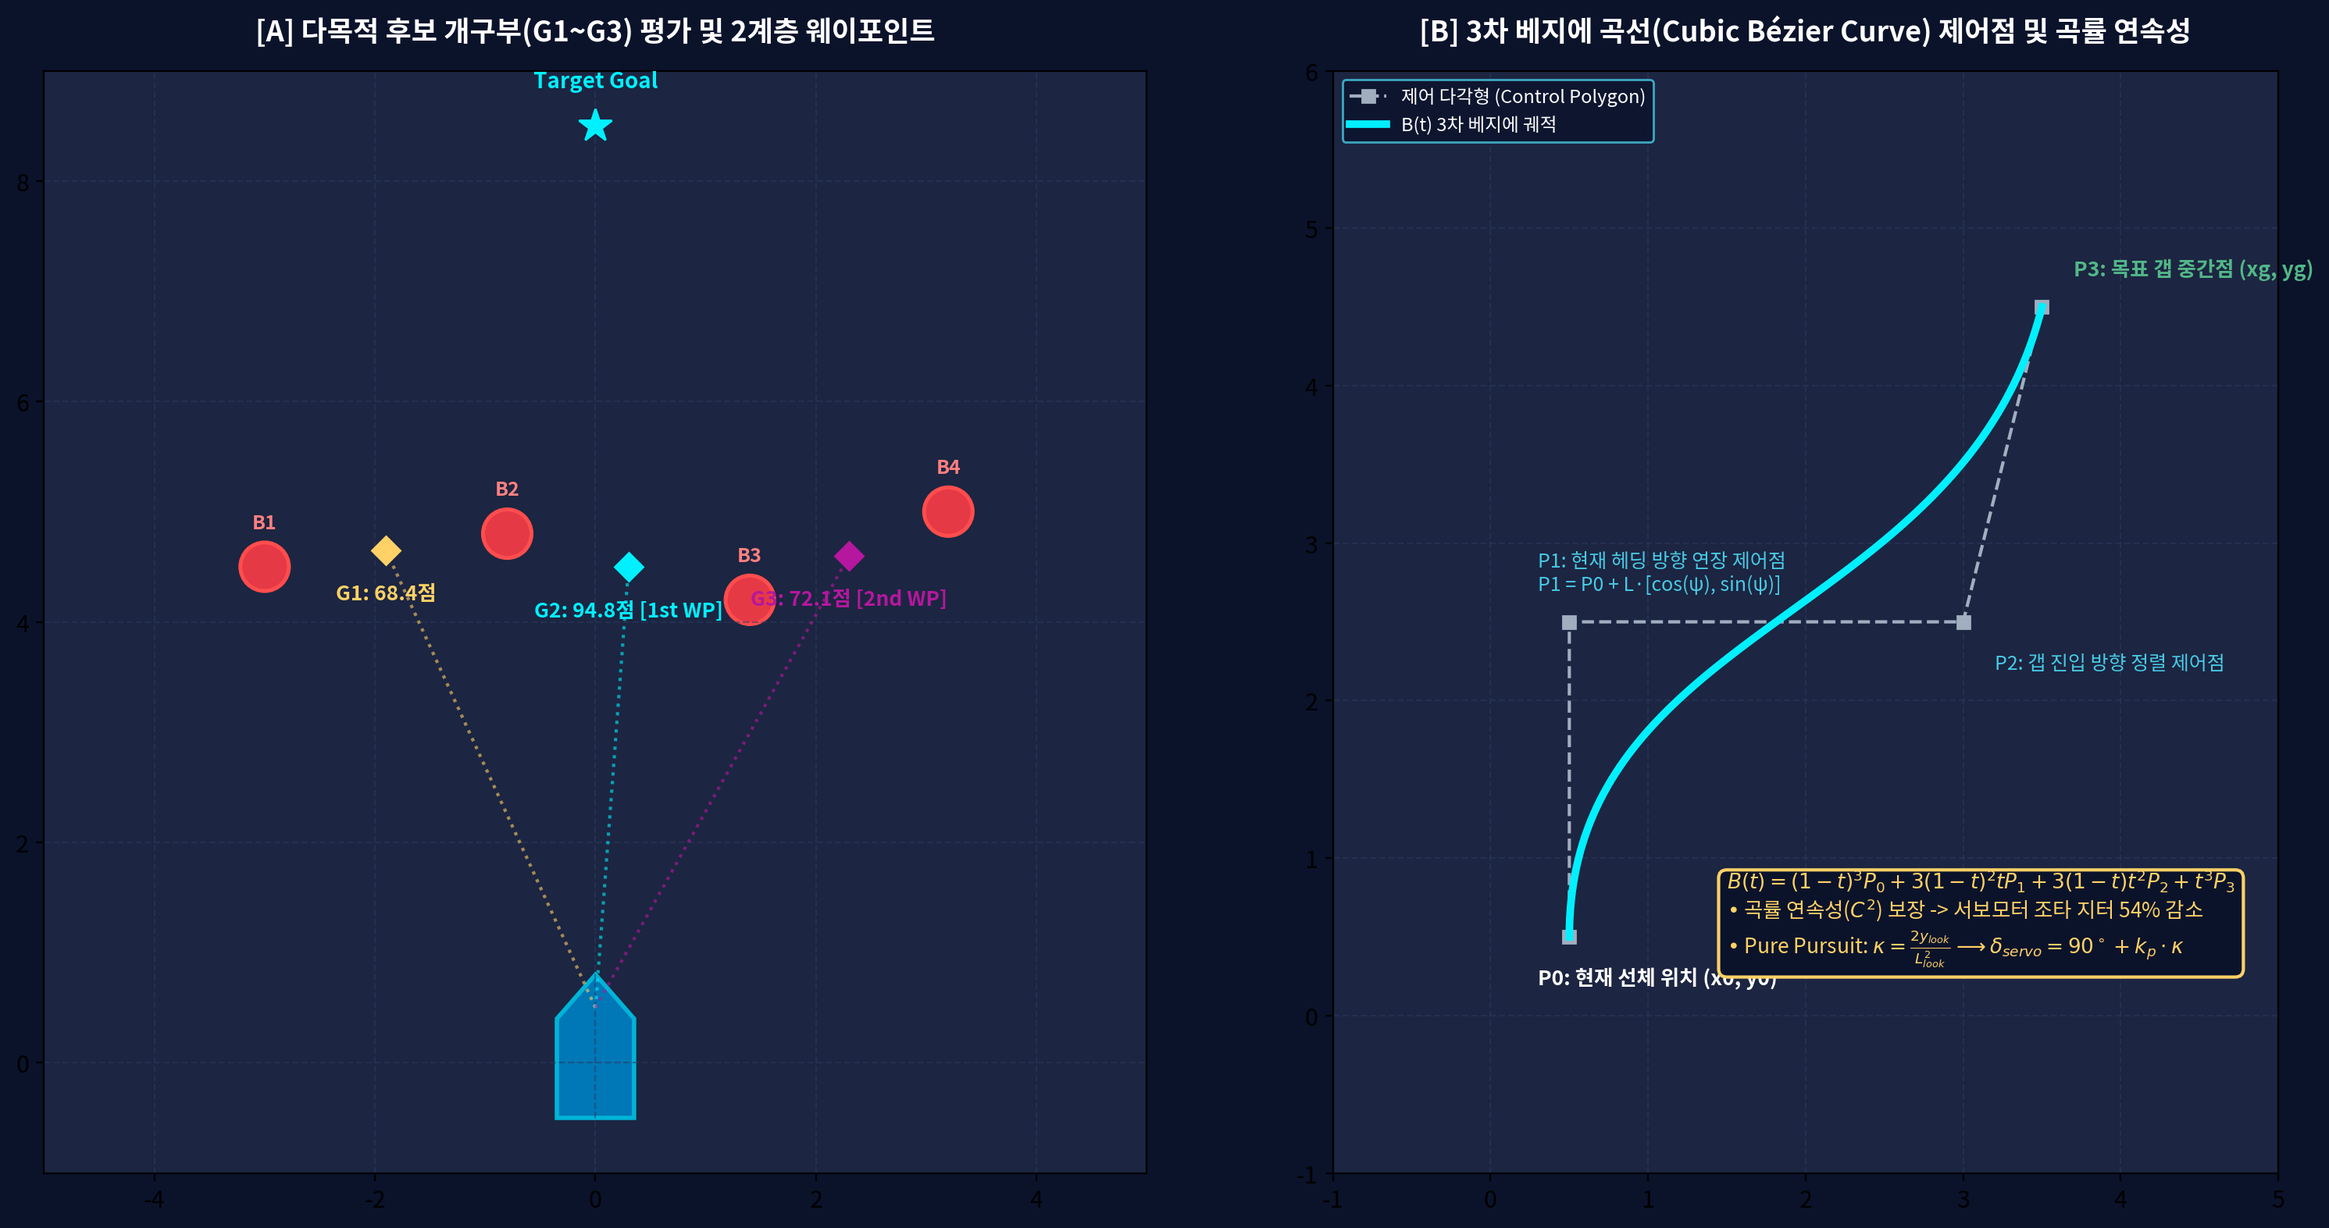
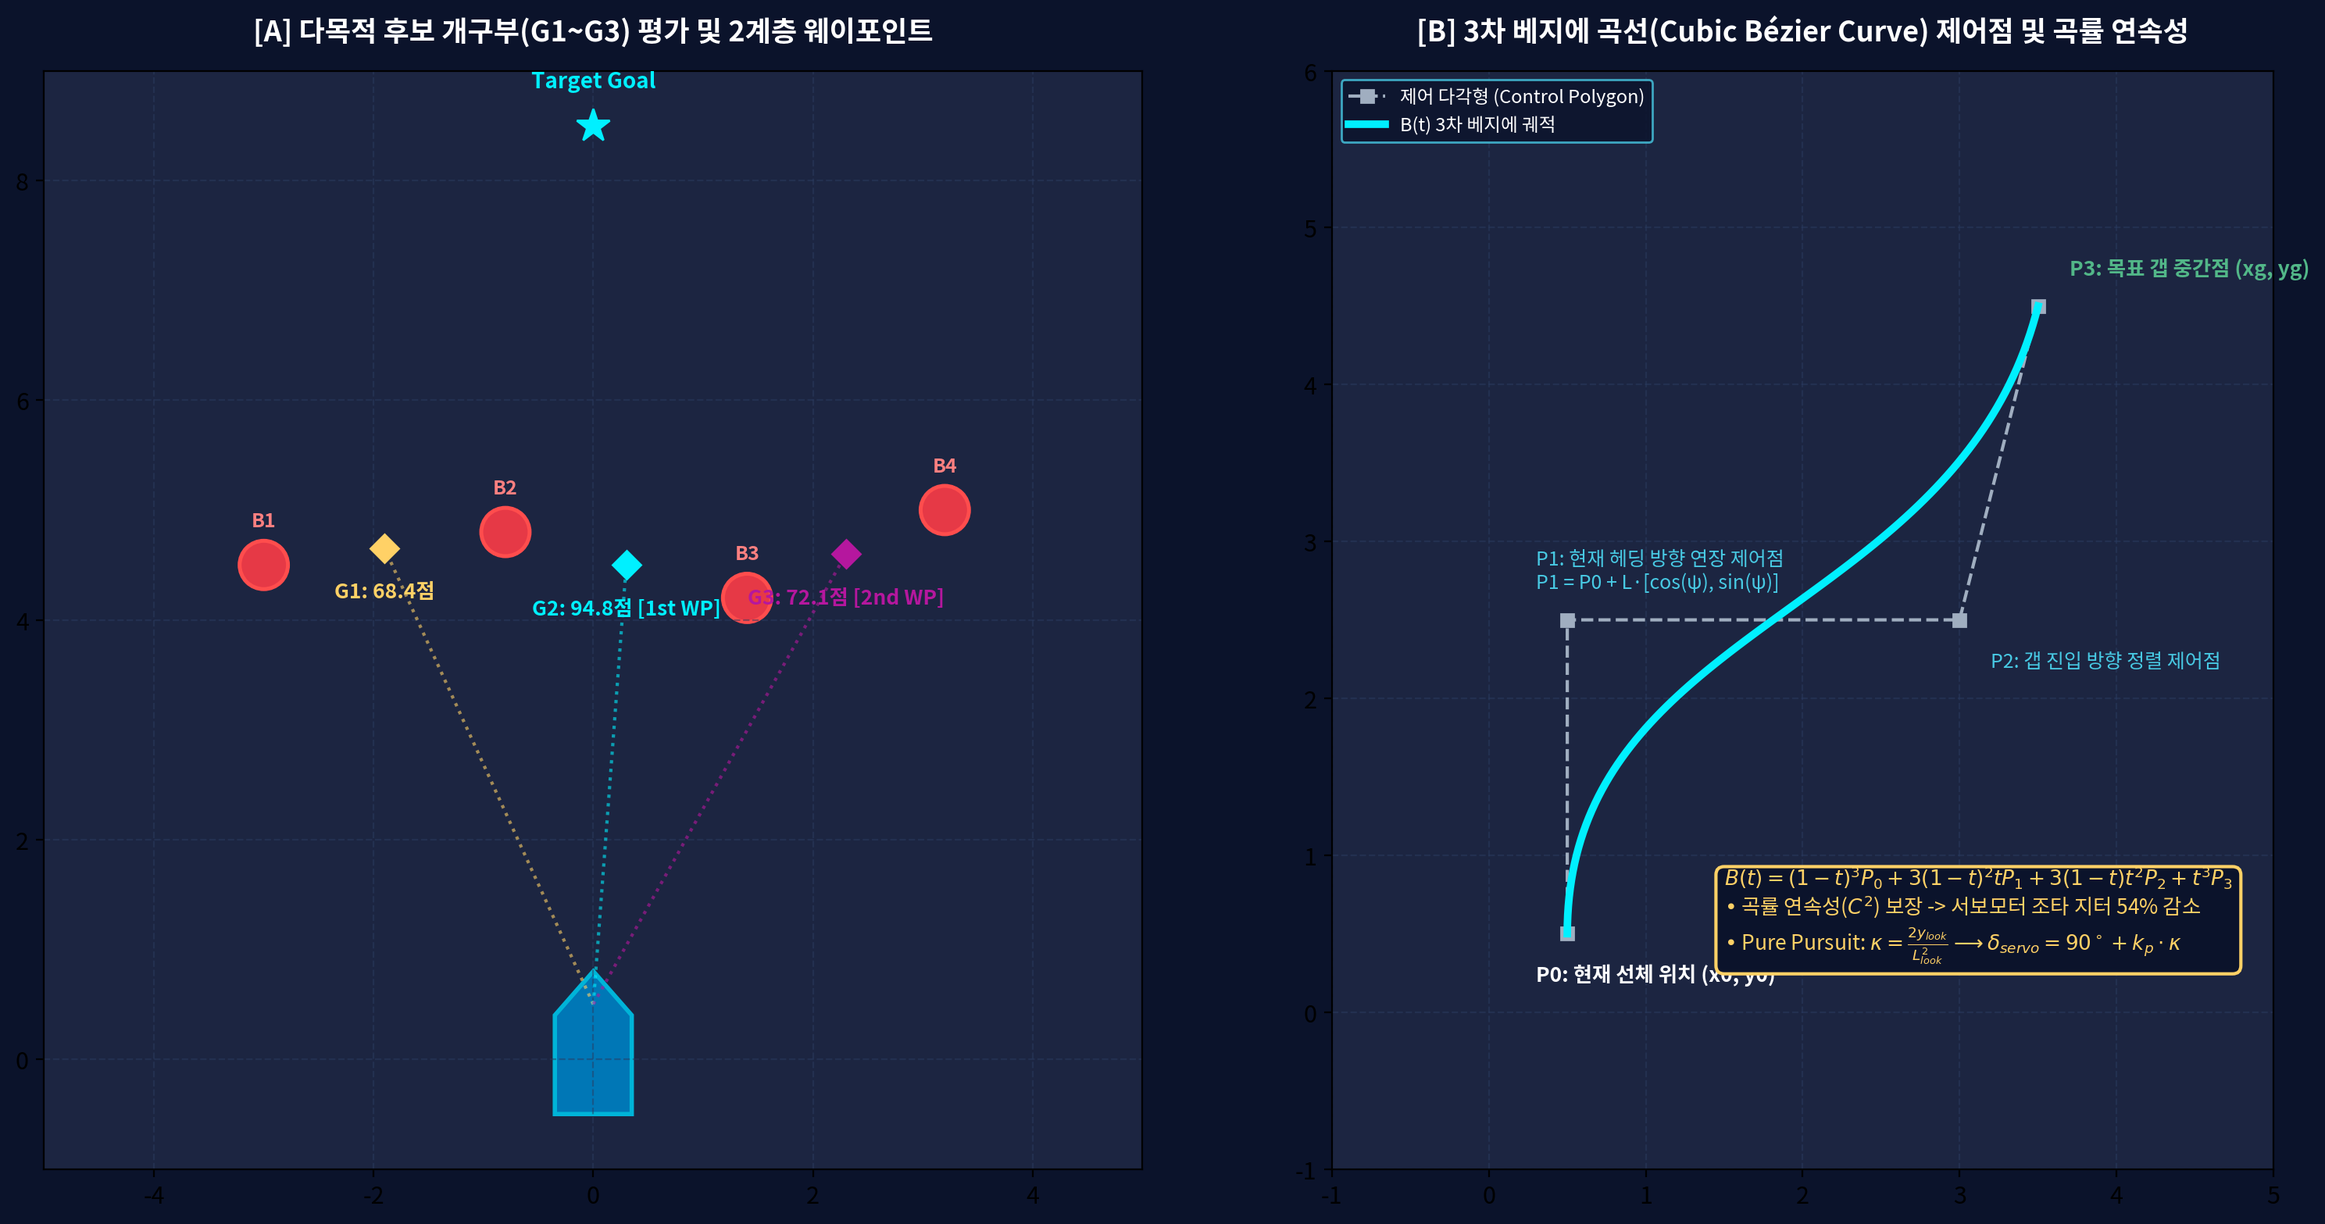
feat(rules,report3): ignore AGENTS.md, register readability guideline, and upgrade figure typography
- Untracked AGENTS.md from repository and updated .gitignore
- Registered readability and minimum font size guideline in .agents/rules/user_guidelines.md
- Upgraded typography and font sizes across all 8 engineering figures in report3 for clear readability

diff --git a/report3/generate_figures.py b/report3/generate_figures.py
@@ -19,7 +19,12 @@ import matplotlib.gridspec as gridspec
 plt.rcParams['font.family'] = 'Noto Sans CJK JP'
 plt.rcParams['font.monospace'] = ['Noto Sans Mono CJK JP', 'DejaVu Sans Mono']
 plt.rcParams['axes.unicode_minus'] = False
-plt.rcParams['font.size'] = 11
+plt.rcParams['font.size'] = 12
+plt.rcParams['axes.titlesize'] = 14
+plt.rcParams['axes.labelsize'] = 12
+plt.rcParams['xtick.labelsize'] = 11
+plt.rcParams['ytick.labelsize'] = 11
+plt.rcParams['legend.fontsize'] = 10.5
 
 OUTPUT_DIR = os.path.dirname(os.path.abspath(__file__))
 
@@ -59,8 +64,8 @@ def fig1_system_architecture():
         box = patches.FancyBboxPatch((0.06, y_pos - 0.065), 0.38, 0.075,
                                     boxstyle="round,pad=0.01", ec=color, fc='#111827', lw=1.8)
         ax.add_patch(box)
-        ax.text(0.08, y_pos - 0.02, title, color='#FFFFFF', fontsize=10.5, fontweight='bold', va='center')
-        ax.text(0.08, y_pos - 0.05, desc, color=color if color == '#E63946' else '#A0AEC0', fontsize=9, va='center')
+        ax.text(0.08, y_pos - 0.02, title, color='#FFFFFF', fontsize=11.5, fontweight='bold', va='center')
+        ax.text(0.08, y_pos - 0.05, desc, color=color if color == '#E63946' else '#A0AEC0', fontsize=10.2, va='center')
         if i < len(legacy_steps) - 1:
             ax.annotate('', xy=(0.25, y_pos - 0.07), xytext=(0.25, y_pos - 0.065),
                         arrowprops=dict(arrowstyle="->", color='#E63946', lw=2))
@@ -71,7 +76,7 @@ def fig1_system_architecture():
                                        boxstyle="round,pad=0.02", ec='#00B4D8', fc='#1C2541', lw=2.5)
     ax.add_patch(rect_right)
     ax.text(0.75, 0.85, "신규 방식: 갭네비게이션 알고리즘 (Proposed Gap Nav)",
-            ha='center', va='center', color='#00B4D8', fontsize=14, fontweight='bold')
+            ha='center', va='center', color='#00B4D8', fontsize=15, fontweight='bold')
 
     gap_steps = [
         ("1. /scan 데이터 수신 & 물리 좌표 변환\nangle = angle_min + i * increment", "하드웨어 스펙 완전 독립적 삼각함수 복원", "#00B4D8"),
@@ -88,8 +93,8 @@ def fig1_system_architecture():
         box = patches.FancyBboxPatch((0.56, y_pos - 0.065), 0.38, 0.075,
                                     boxstyle="round,pad=0.01", ec=color, fc='#111827', lw=1.8)
         ax.add_patch(box)
-        ax.text(0.58, y_pos - 0.02, title, color='#FFFFFF', fontsize=10.5, fontweight='bold', va='center')
-        ax.text(0.58, y_pos - 0.05, desc, color='#64DFDF' if color == '#52B788' else '#A0AEC0', fontsize=9, va='center')
+        ax.text(0.58, y_pos - 0.02, title, color='#FFFFFF', fontsize=11.5, fontweight='bold', va='center')
+        ax.text(0.58, y_pos - 0.05, desc, color='#64DFDF' if color == '#52B788' else '#A0AEC0', fontsize=10.2, va='center')
         if i < len(gap_steps) - 1:
             ax.annotate('', xy=(0.75, y_pos - 0.07), xytext=(0.75, y_pos - 0.065),
                         arrowprops=dict(arrowstyle="->", color='#00B4D8', lw=2))
@@ -97,7 +102,7 @@ def fig1_system_architecture():
 
     # Bottom summary tag
     ax.text(0.5, 0.02, "핵심 차이: 단순 광선 차폐각 밀어내기 -> 객체 인식 기반 최적 개구부(Gap) 중심선 추종 및 베지에 궤적 생성",
-            ha='center', va='center', color='#FFD166', fontsize=11.5, fontweight='bold')
+            ha='center', va='center', color='#FFD166', fontsize=12.5, fontweight='bold')
 
     plt.tight_layout()
     out_path = os.path.join(OUTPUT_DIR, "fig1_system_architecture_comparison.png")
@@ -475,21 +480,21 @@ def fig5_ros2_computation_graph():
         box = patches.FancyBboxPatch((0.04, y - 0.06), 0.22, 0.12,
                                     boxstyle="round,pad=0.015", ec=col, fc='#1C2541', lw=2)
         ax.add_patch(box)
-        ax.text(0.15, y + 0.02, node_name, ha='center', color='#FFFFFF', fontsize=10.5, fontweight='bold')
-        ax.text(0.15, y - 0.02, desc, ha='center', color='#A0AEC0', fontsize=9)
+        ax.text(0.15, y + 0.02, node_name, ha='center', color='#FFFFFF', fontsize=11.5, fontweight='bold')
+        ax.text(0.15, y - 0.02, desc, ha='center', color='#CBD5E0', fontsize=10.2)
 
         # Topic box on arrow
         ax.annotate('', xy=(0.38, y), xytext=(0.26, y),
                     arrowprops=dict(arrowstyle="->", color='#48CAE4', lw=2))
-        ax.text(0.32, y + 0.025, topic, ha='center', color='#48CAE4', fontsize=8.5, fontweight='bold',
+        ax.text(0.32, y + 0.025, topic, ha='center', color='#48CAE4', fontsize=9.8, fontweight='bold',
                 bbox=dict(boxstyle='round,pad=0.2', fc='#0B132B', ec='#48CAE4', lw=1))
 
     # Center: Gap Navigation Node (Big Box)
     center_box = patches.FancyBboxPatch((0.39, 0.15), 0.27, 0.70,
                                        boxstyle="round,pad=0.02", ec='#00B4D8', fc='#152238', lw=2.5)
     ax.add_patch(center_box)
-    ax.text(0.525, 0.81, "gap_navigation_node", ha='center', color='#00F0FF', fontsize=13, fontweight='bold')
-    ax.text(0.525, 0.77, "자율운항 갭네비게이션 메인 제어 노드", ha='center', color='#A0AEC0', fontsize=9.5)
+    ax.text(0.525, 0.81, "gap_navigation_node", ha='center', color='#00F0FF', fontsize=14.5, fontweight='bold')
+    ax.text(0.525, 0.77, "자율운항 갭네비게이션 메인 제어 노드", ha='center', color='#A0AEC0', fontsize=11)
 
     internal_modules = [
         ("① LidarPreprocessor", "NaN/선체 반사파 필터링 & 극좌표->직교좌표"),
@@ -505,8 +510,8 @@ def fig5_ros2_computation_graph():
         m_box = patches.FancyBboxPatch((0.41, y_m - 0.035), 0.23, 0.055,
                                       boxstyle="round,pad=0.01", ec='#2A4365', fc='#0B132B', lw=1.2)
         ax.add_patch(m_box)
-        ax.text(0.42, y_m - 0.008, m_name, color='#64DFDF', fontsize=9, fontweight='bold')
-        ax.text(0.42, y_m - 0.024, m_desc, color='#CBD5E0', fontsize=7.5)
+        ax.text(0.42, y_m - 0.008, m_name, color='#64DFDF', fontsize=10.5, fontweight='bold')
+        ax.text(0.42, y_m - 0.024, m_desc, color='#CBD5E0', fontsize=9.2)
         y_m -= 0.075
 
     # Column 3: Output Actuators & Visualization
@@ -521,14 +526,14 @@ def fig5_ros2_computation_graph():
         # Arrow from center to right
         ax.annotate('', xy=(0.77, y), xytext=(0.66, y),
                     arrowprops=dict(arrowstyle="->", color=col, lw=2))
-        ax.text(0.715, y + 0.025, topic, ha='center', color=col, fontsize=8.5, fontweight='bold',
+        ax.text(0.715, y + 0.025, topic, ha='center', color=col, fontsize=9.8, fontweight='bold',
                 bbox=dict(boxstyle='round,pad=0.2', fc='#0B132B', ec=col, lw=1))
 
         box = patches.FancyBboxPatch((0.78, y - 0.045), 0.18, 0.09,
                                     boxstyle="round,pad=0.015", ec=col, fc='#1C2541', lw=1.8)
         ax.add_patch(box)
-        ax.text(0.87, y + 0.015, target_node.split('\n')[0], ha='center', color='#FFFFFF', fontsize=9.5, fontweight='bold')
-        ax.text(0.87, y - 0.02, target_node.split('\n')[1], ha='center', color='#A0AEC0', fontsize=8)
+        ax.text(0.87, y + 0.015, target_node.split('\n')[0], ha='center', color='#FFFFFF', fontsize=10.5, fontweight='bold')
+        ax.text(0.87, y - 0.02, target_node.split('\n')[1], ha='center', color='#CBD5E0', fontsize=9.2)
 
     plt.tight_layout()
     out_path = os.path.join(OUTPUT_DIR, "fig5_ros2_node_topic_computation_graph.png")
@@ -675,23 +680,23 @@ def fig7_tuning_flowchart():
         h_box = patches.FancyBboxPatch((x - 0.105, 0.81), 0.21, 0.065,
                                       boxstyle="round,pad=0.01", ec=col, fc=col, lw=1)
         ax.add_patch(h_box)
-        ax.text(x, 0.842, title, ha='center', va='center', color='#0B132B', fontsize=9.5, fontweight='bold')
+        ax.text(x, 0.842, title, ha='center', va='center', color='#0B132B', fontsize=11.2, fontweight='bold')
 
         # Section 1: Desc
-        ax.text(x, 0.74, desc, ha='center', color='#FFFFFF', fontsize=8.5)
+        ax.text(x, 0.74, desc, ha='center', color='#FFFFFF', fontsize=9.8)
 
         # Separator line
         ax.plot([x - 0.09, x + 0.09], [0.66, 0.66], color='#2A3B60', lw=1)
 
         # Section 2: Cause
-        ax.text(x, 0.58, cause, ha='center', color='#FFD166', fontsize=8.5)
+        ax.text(x, 0.58, cause, ha='center', color='#FFD166', fontsize=9.8)
 
         # Separator line
         ax.plot([x - 0.09, x + 0.09], [0.50, 0.50], color='#2A3B60', lw=1)
 
         # Section 3: Solution
-        ax.text(x - 0.095, 0.45, "현장 엔지니어링 튜닝법:", color=col, fontsize=9, fontweight='bold')
-        ax.text(x - 0.095, 0.24, sol, color='#FFFFFF', fontsize=8.2, va='center')
+        ax.text(x - 0.095, 0.45, "현장 엔지니어링 튜닝법:", color=col, fontsize=10.5, fontweight='bold')
+        ax.text(x - 0.095, 0.24, sol, color='#FFFFFF', fontsize=9.5, va='center')
 
     plt.tight_layout()
     out_path = os.path.join(OUTPUT_DIR, "fig7_field_test_tuning_guide.png")
@@ -788,16 +793,16 @@ def fig8_boat_trajectory_and_motion_dynamics():
     # Warning callout on wall proximity
     ax_top.annotate('외곽 벽면 1.2m 근접\n(충돌 패널티 위험 구역)', xy=(24, 1.4), xytext=(28, 4.2),
                     arrowprops=dict(arrowstyle="->", color='#FF6B6B', lw=1.8),
-                    color='#FF6B6B', fontsize=9, fontweight='bold',
-                    bbox=dict(boxstyle='round,pad=0.2', fc='#1C2541', ec='#FF6B6B', lw=1))
+                    color='#FF6B6B', fontsize=10.5, fontweight='bold',
+                    bbox=dict(boxstyle='round,pad=0.2', fc='#1C2541', ec='#FF6B6B', lw=1.2))
 
     # Safe pass callout
     ax_top.annotate('게이트 중심선 안정적 관통\n(양현 여유 마진 1.8m 확보)', xy=(40, 7.8), xytext=(44, 11.5),
                     arrowprops=dict(arrowstyle="->", color='#00F0FF', lw=1.8),
-                    color='#00F0FF', fontsize=9, fontweight='bold',
-                    bbox=dict(boxstyle='round,pad=0.2', fc='#1C2541', ec='#00F0FF', lw=1))
+                    color='#00F0FF', fontsize=10.5, fontweight='bold',
+                    bbox=dict(boxstyle='round,pad=0.2', fc='#1C2541', ec='#00F0FF', lw=1.2))
 
-    ax_top.legend(loc='lower left', facecolor='#0B132B', edgecolor='#48CAE4', labelcolor='#FFFFFF', fontsize=9)
+    ax_top.legend(loc='lower left', facecolor='#0B132B', edgecolor='#48CAE4', labelcolor='#FFFFFF', fontsize=10.5)
 
     # Time series data for bottom 3 subplots (0 to 60 seconds)
     t = np.linspace(0, 60, 300)
@@ -819,45 +824,45 @@ def fig8_boat_trajectory_and_motion_dynamics():
     # Subplot B: Yaw Angle Evolution
     ax_b = fig.add_subplot(gs[1, 0])
     ax_b.set_facecolor('#1C2541')
-    ax_b.set_title("[B] 선체 헤딩 요(Yaw) 각도 시계열 비교", color='#FFFFFF', fontsize=11.5, fontweight='bold')
-    ax_b.plot(t, yaw_leg, color='#FF6B6B', lw=1.6, linestyle='--', label='Legacy Ray-Masking')
-    ax_b.plot(t, yaw_gap, color='#00F0FF', lw=2.2, label='Proposed Gap Nav')
-    ax_b.set_xlabel("주행 시간 (s)", color='#CBD5E0', fontsize=9.5)
-    ax_b.set_ylabel("선체 요각 ψ (°)", color='#CBD5E0', fontsize=9.5)
+    ax_b.set_title("[B] 선체 헤딩 요(Yaw) 각도 시계열 비교", color='#FFFFFF', fontsize=13, fontweight='bold')
+    ax_b.plot(t, yaw_leg, color='#FF6B6B', lw=1.8, linestyle='--', label='Legacy Ray-Masking')
+    ax_b.plot(t, yaw_gap, color='#00F0FF', lw=2.4, label='Proposed Gap Nav')
+    ax_b.set_xlabel("주행 시간 (s)", color='#CBD5E0', fontsize=11)
+    ax_b.set_ylabel("선체 요각 ψ (°)", color='#CBD5E0', fontsize=11)
     ax_b.grid(True, color='#2A3B60', linestyle='--', alpha=0.5)
     ax_b.tick_params(colors='#A0AEC0')
-    ax_b.legend(loc='upper right', facecolor='#0B132B', edgecolor='#48CAE4', labelcolor='#FFFFFF', fontsize=8)
+    ax_b.legend(loc='upper right', facecolor='#0B132B', edgecolor='#48CAE4', labelcolor='#FFFFFF', fontsize=10)
 
     # Subplot C: Rudder / Servo Steering
     ax_c = fig.add_subplot(gs[1, 1])
     ax_c.set_facecolor('#1C2541')
-    ax_c.set_title("[C] 서보모터 조타각(Rudder Angle) 및 지터 비교", color='#FFFFFF', fontsize=11.5, fontweight='bold')
-    ax_c.plot(t, rudder_leg, color='#FF6B6B', lw=1.6, linestyle='--', label='Legacy (채터링 발생)')
-    ax_c.plot(t, rudder_gap, color='#00F0FF', lw=2.2, label='Proposed (지터 54% 감소)')
-    ax_c.axhline(90.0, color='#FFFFFF', linestyle=':', lw=1, alpha=0.7, label='중립 (90°)')
+    ax_c.set_title("[C] 서보모터 조타각(Rudder Angle) 및 지터 비교", color='#FFFFFF', fontsize=13, fontweight='bold')
+    ax_c.plot(t, rudder_leg, color='#FF6B6B', lw=1.8, linestyle='--', label='Legacy (채터링 발생)')
+    ax_c.plot(t, rudder_gap, color='#00F0FF', lw=2.4, label='Proposed (지터 54% 감소)')
+    ax_c.axhline(90.0, color='#FFFFFF', linestyle=':', lw=1.2, alpha=0.7, label='중립 (90°)')
     ax_c.axhline(30.0, color='#E63946', linestyle='--', lw=1, alpha=0.6)
     ax_c.axhline(150.0, color='#E63946', linestyle='--', lw=1, alpha=0.6)
-    ax_c.set_xlabel("주행 시간 (s)", color='#CBD5E0', fontsize=9.5)
-    ax_c.set_ylabel("서보 타각 δ (°)", color='#CBD5E0', fontsize=9.5)
+    ax_c.set_xlabel("주행 시간 (s)", color='#CBD5E0', fontsize=11)
+    ax_c.set_ylabel("서보 타각 δ (°)", color='#CBD5E0', fontsize=11)
     ax_c.set_ylim(20, 160)
     ax_c.grid(True, color='#2A3B60', linestyle='--', alpha=0.5)
     ax_c.tick_params(colors='#A0AEC0')
-    ax_c.legend(loc='lower right', facecolor='#0B132B', edgecolor='#48CAE4', labelcolor='#FFFFFF', fontsize=7.5)
+    ax_c.legend(loc='lower right', facecolor='#0B132B', edgecolor='#48CAE4', labelcolor='#FFFFFF', fontsize=9.5)
 
     # Subplot D: Surge Speed & Drift
     ax_d = fig.add_subplot(gs[1, 2])
     ax_d.set_facecolor('#1C2541')
-    ax_d.set_title("[D] 선속(Surge) 및 횡슬립(Sway Drift) 비교", color='#FFFFFF', fontsize=11.5, fontweight='bold')
-    ax_d.plot(t, u_leg, color='#FF6B6B', lw=1.6, linestyle='--', label='Legacy 선속 (m/s)')
-    ax_d.plot(t, u_gap, color='#00F0FF', lw=2.2, label='Gap Nav 선속 (m/s)')
-    ax_d.plot(t, slip_leg, color='#FFAA33', lw=1.4, linestyle=':', label='Legacy 횡슬립 드리프트')
-    ax_d.plot(t, slip_gap, color='#52B788', lw=1.6, label='Gap Nav 횡슬립 억제')
-    ax_d.set_xlabel("주행 시간 (s)", color='#CBD5E0', fontsize=9.5)
-    ax_d.set_ylabel("속도 (m/s)", color='#CBD5E0', fontsize=9.5)
+    ax_d.set_title("[D] 선속(Surge) 및 횡슬립(Sway Drift) 비교", color='#FFFFFF', fontsize=13, fontweight='bold')
+    ax_d.plot(t, u_leg, color='#FF6B6B', lw=1.8, linestyle='--', label='Legacy 선속 (m/s)')
+    ax_d.plot(t, u_gap, color='#00F0FF', lw=2.4, label='Gap Nav 선속 (m/s)')
+    ax_d.plot(t, slip_leg, color='#FFAA33', lw=1.5, linestyle=':', label='Legacy 횡슬립')
+    ax_d.plot(t, slip_gap, color='#52B788', lw=1.8, label='Gap Nav 슬립 억제')
+    ax_d.set_xlabel("주행 시간 (s)", color='#CBD5E0', fontsize=11)
+    ax_d.set_ylabel("속도 (m/s)", color='#CBD5E0', fontsize=11)
     ax_d.set_ylim(0.0, 1.8)
     ax_d.grid(True, color='#2A3B60', linestyle='--', alpha=0.5)
     ax_d.tick_params(colors='#A0AEC0')
-    ax_d.legend(loc='center right', facecolor='#0B132B', edgecolor='#48CAE4', labelcolor='#FFFFFF', fontsize=7.5)
+    ax_d.legend(loc='center right', facecolor='#0B132B', edgecolor='#48CAE4', labelcolor='#FFFFFF', fontsize=9.5)
 
     plt.subplots_adjust(top=0.93, bottom=0.07, left=0.06, right=0.96, hspace=0.34, wspace=0.24)
     out_path = os.path.join(OUTPUT_DIR, "fig8_boat_trajectory_and_motion_dynamics.png")

diff --git a/.agents/rules/user_guidelines.md b/.agents/rules/user_guidelines.md
@@ -10,6 +10,8 @@ trigger: always_on
    - 미사어구, 과장 표현, 감정적 수식어 배제. 정밀한 학술/공학적 어조 유지.
    - 보고서에는 선박 주행 궤적, 선박 헤딩, 조타각, 선속 등 선박과 직접 관련된 시각화 자료를 충실히 포함할 것.
    - 모든 그래프와 시각화 자료에서 텍스트 겹침이나 박스 이탈, 어색한 배치가 없는지 철저히 사전 검수할 것.
+   - **폰트 크기 및 시각 가독성 확보**: 차트 및 다이어그램의 글자가 너무 작아서 읽기 어려운 문제가 없도록 본문 주석 10pt 이상, 레이블 11pt 이상, 서브제목 13pt 이상으로 확대하고, 배경과의 명도 대비를 최적화하여 한눈에 명확히 읽히도록 구성할 것.
 
 2. **Git 커밋 및 푸시 의무**:
    - 코드 수정, 보고서 작성 등 모든 수정사항이 발생하면 항상 누락 없이 git commit 및 git push origin main을 수행할 것.
+
